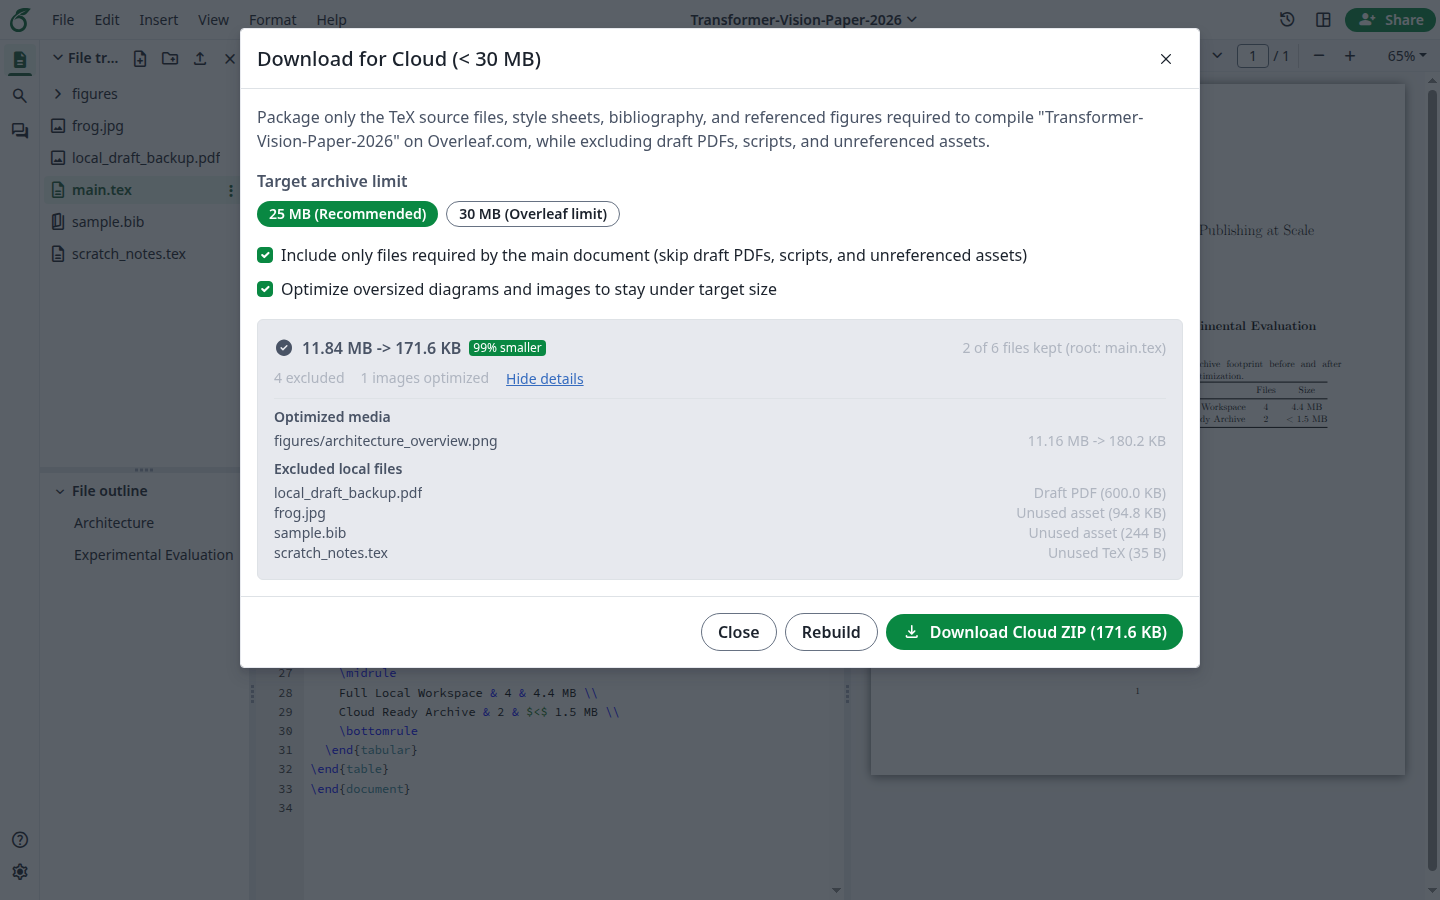
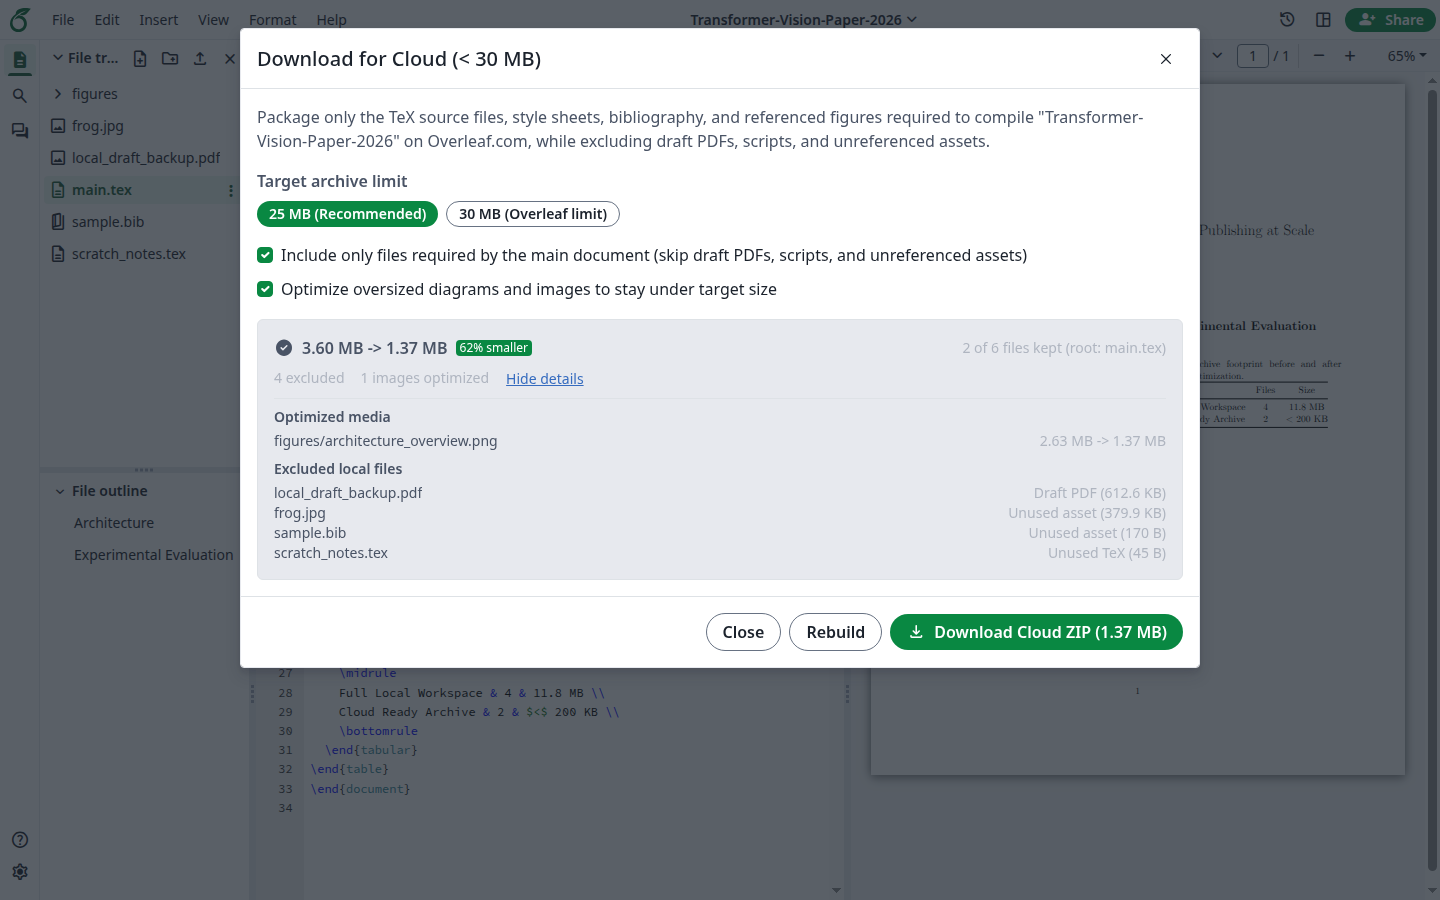
docs(screenshots): refresh all UI screenshots with new branding and remove stale captures

diff --git a/README.md b/README.md
@@ -45,14 +45,17 @@ A self-hosted enterprise distribution of Overleaf Community Edition forked from 
 
 <div align="center">
 
-<img src="doc/screenshots/dashboard.png" alt="Project Dashboard with Custom Enterprise Branding and Sync Folder Badges" width="90%"/>
-<p><sub>Project Dashboard with custom organization branding, Organize Tags filters, and mapped host sync folder badges</sub></p>
+<img src="doc/screenshots/login.png" alt="Sign-In Page with Clean Vector COSL Edition Branding" width="90%"/>
+<p><sub>Sign-In experience featuring the clean vector COSL Edition logo and uncluttered navigation bar</sub></p>
+
+<img src="doc/screenshots/dashboard.png" alt="Project Dashboard with Custom Enterprise Branding, Organize Tags, and Sync Folder Badges" width="90%"/>
+<p><sub>Project Dashboard with the logo-only header, Organize Tags filters, and mapped host sync folder badges</sub></p>
 
 <img src="doc/screenshots/ide-editor.png" alt="LaTeX IDE compiling two-column manuscript with Booktabs and high-res figure" width="90%"/>
 <p><sub>Live IDE compiling synchronized host sources with Package Hub dependencies and automatic 15s OT persistence</sub></p>
 
-<img src="doc/screenshots/cloud-zip-modal.png" alt="Cloud ZIP Optimizer reducing an 11.84 MB local project down to 171.6 KB" width="90%"/>
-<p><sub>Cloud ZIP (&lt; 30 MB) optimizer pruning draft PDFs/scripts and compressing figures for cloud upload</sub></p>
+<img src="doc/screenshots/cloud-zip-modal.png" alt="Cloud ZIP Optimizer reducing a 3.60 MB local project down to 1.37 MB" width="90%"/>
+<p><sub>Cloud ZIP (&lt; 30 MB) optimizer pruning draft PDFs and unused files while compressing figures for cloud upload</sub></p>
 
 <img src="doc/screenshots/package-hub.png" alt="Self-Hosted LaTeX Package Hub UI" width="90%"/>
 <p><sub>Integrated TeX Package Hub managing TeX Live, CTAN packages, Starter Packs, and custom style uploads</sub></p>
@@ -61,7 +64,10 @@ A self-hosted enterprise distribution of Overleaf Community Edition forked from 
 <p><sub>Host workspace folder browser and per-project destination allocator persisted to MongoDB</sub></p>
 
 <img src="doc/screenshots/admin-console.png" alt="Enterprise System Admin Console" width="90%"/>
-<p><sub>Enterprise Admin Console monitoring core services, Package Hub, Local Folder Sync, sharing policies, and branding</sub></p>
+<p><sub>Enterprise Admin Console monitoring core services, Package Hub, Local Folder Sync, and user access</sub></p>
+
+<img src="doc/screenshots/admin-branding.png" alt="Enterprise Admin Organization Branding and Maintenance Settings" width="90%"/>
+<p><sub>Network-wide Organization Logo controls with live Light/Dark header previews, maintenance toggles, and announcements</sub></p>
 
 </div>
 
